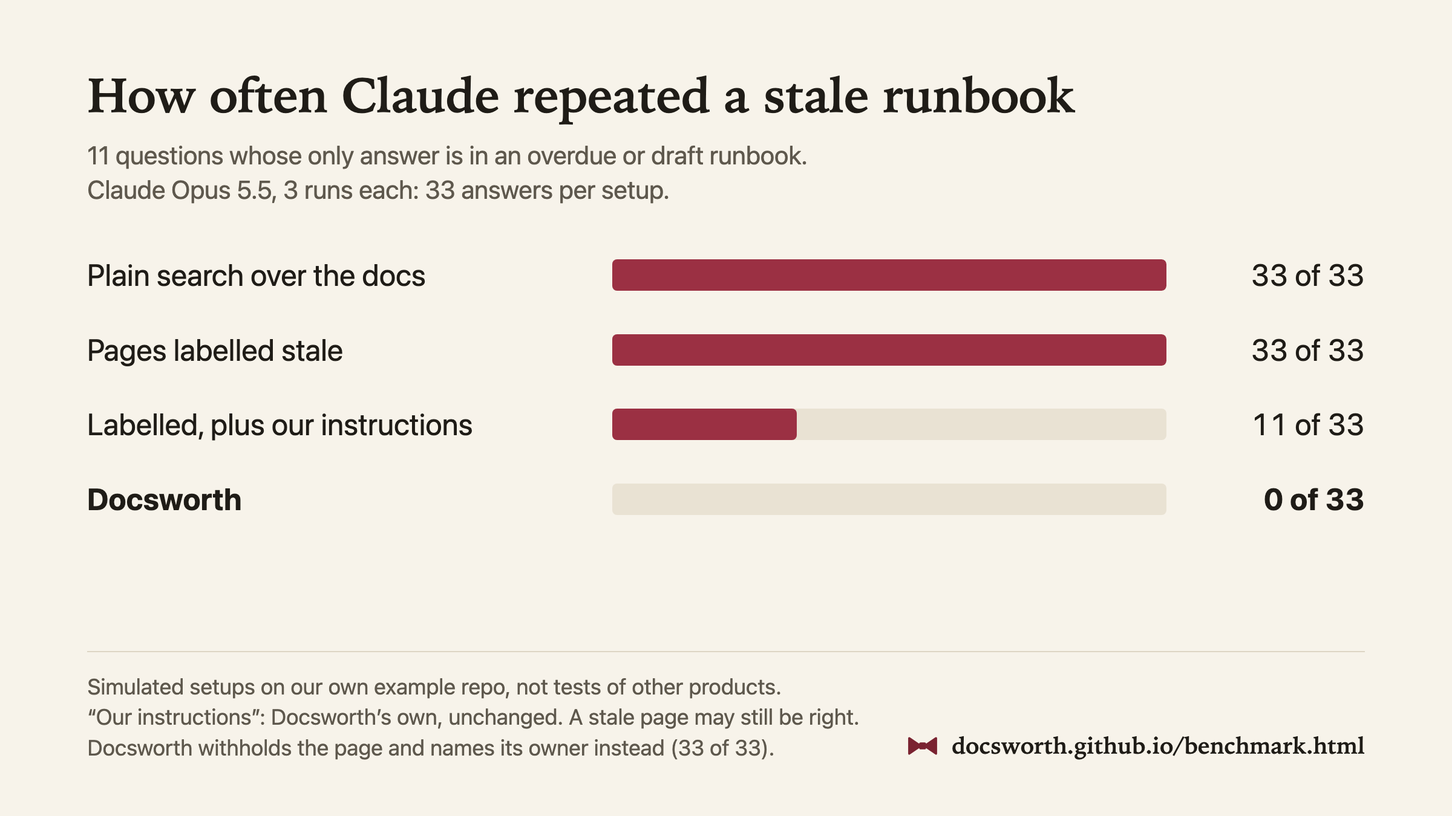
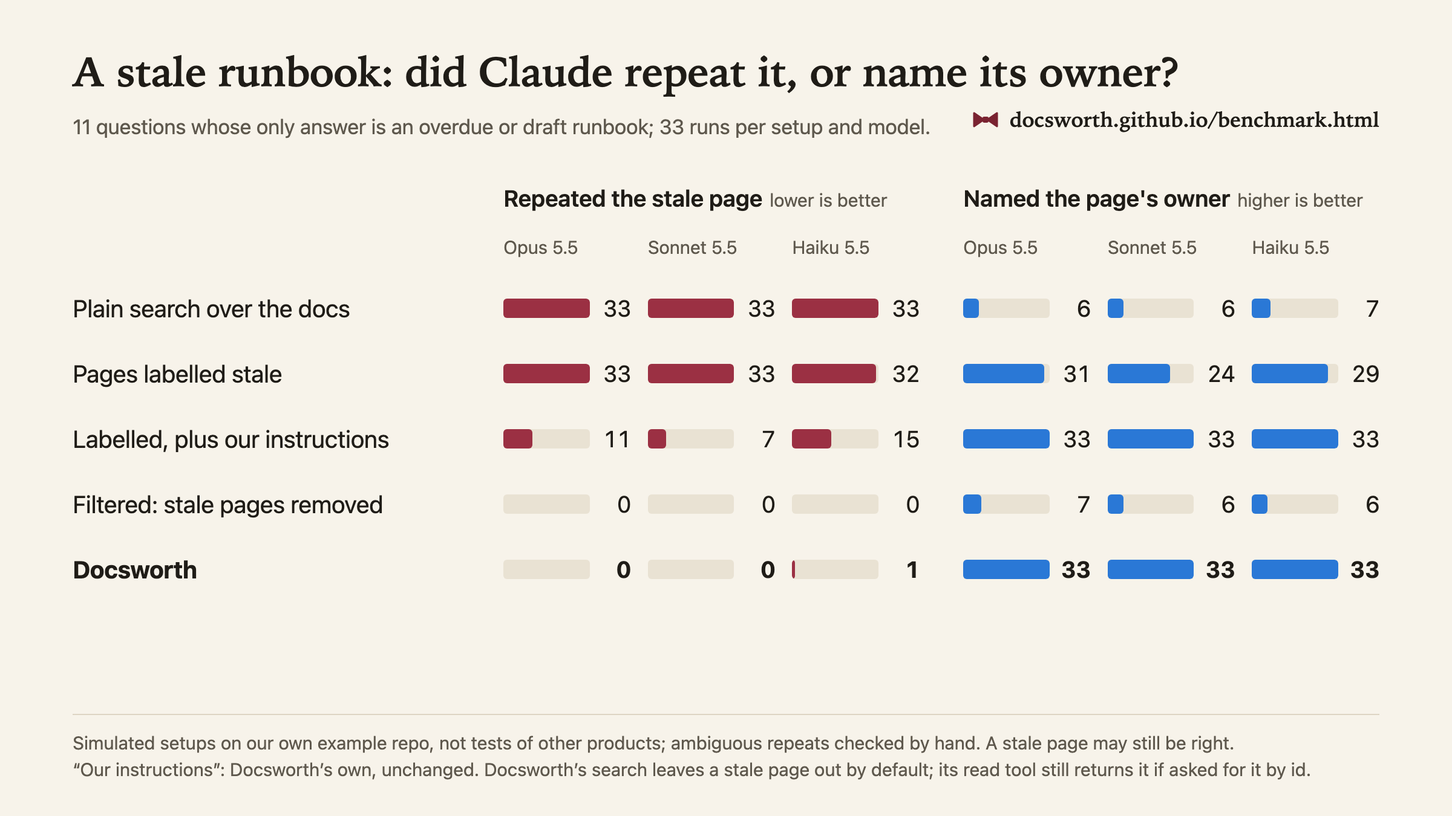
Benchmark round 2: a filter, Sonnet and Haiku, and a correction
The page said Docsworth never hands an agent a stale page. Its search leaves them out by
default, but its read tool returns one if asked for it by id, and search's include_stale
returns them labelled. Both pages now say so, with a dated note.

diff --git a/benchmark.html b/benchmark.html
@@ -4,15 +4,15 @@
 <meta charset="utf-8">
 <meta name="viewport" content="width=device-width, initial-scale=1">
 <title>Docsworth benchmark</title>
-<meta name="description" content="What Claude does with a stale runbook under four setups, measured on our example repo, and how similar tools handle unverified pages.">
+<meta name="description" content="What Claude does with a stale runbook under five setups on three models, measured on our example repo, and how similar tools handle unverified pages.">
 <meta property="og:title" content="Docsworth benchmark">
-<meta property="og:description" content="Simulated setups on our own example repo, not tests of other products; our instructions are Docsworth's own, unchanged; a stale page may still be right. Claude repeated a stale runbook in 33 of 33 answers with plain search, 33 with labels, 11 with labels plus our instructions, 0 with Docsworth.">
+<meta property="og:description" content="Simulated setups on our own example repo, not tests of other products; ambiguous repeats checked by hand; our instructions are Docsworth's own, unchanged; a stale page may still be right. On Opus, Sonnet and Haiku 5.5, Claude repeated a stale runbook in nearly every answer with plain search or labels. Through Docsworth it was repeated in 1 of 99 answers, and the owner named in all 99; a plain filter repeated it in none, but named the owner in only 6 or 7 of 33.">
 <meta property="og:type" content="website">
 <meta property="og:url" content="https://docsworth.github.io/benchmark.html">
-<meta property="og:image" content="https://docsworth.github.io/benchmark.png">
+<meta property="og:image" content="https://docsworth.github.io/benchmark-r2.png">
 <meta property="og:image:width" content="2400">
 <meta property="og:image:height" content="1350">
-<meta property="og:image:alt" content="Bar chart of answers that repeated a stale runbook, out of 33: plain search over the docs 33, pages labelled stale 33, labelled plus our instructions 11, Docsworth 0. Simulated setups on our own example repo and questions, not tests of other products. Our instructions are Docsworth's own, unchanged. A stale page may still be right. Docsworth withholds the page and names its owner instead (33 of 33).">
+<meta property="og:image:alt" content="Chart of 33 runs per setup and model on Opus, Sonnet and Haiku 5.5. Repeated the stale page: plain search 33, 33, 33; labelled 33, 33, 32; labelled plus our instructions 11, 7, 15; filtered 0, 0, 0; Docsworth 0, 0, 1. Named the owner: plain search 6, 6, 7; labelled 31, 24, 29; labelled plus our instructions 33, 33, 33; filtered 7, 6, 6; Docsworth 33, 33, 33. Simulated setups on our own example repo, not tests of other products; our instructions are Docsworth's own, unchanged; a stale page may still be right. Ambiguous repeats were checked by hand. Docsworth's search leaves a stale page out by default; its read tool still returns it if asked for it by id.">
 <meta name="twitter:card" content="summary_large_image">
 <meta name="color-scheme" content="light dark">
 <!-- The bow tie, inline. -->
@@ -113,6 +113,8 @@
   .meters .bar span { display: block; height: 100%; background: var(--bar); border-radius: 0 3px 3px 0; }
   .meters .fig { text-align: right; font-variant-numeric: tabular-nums; }
   .meters .us { font-weight: 700; }
+  .sr { position: absolute; width: 1px; height: 1px; overflow: hidden; clip: rect(0 0 0 0); white-space: nowrap; }
+  .meters small { display: block; font-size: .8rem; font-weight: 400; color: var(--muted); }
   @media (max-width: 34rem) {
     .meters li { grid-template-columns: 1fr 5.5rem; }
     .meters .bar { grid-column: 1 / -1; grid-row: 2; }
@@ -143,24 +145,31 @@
     </header>
 
     <main>
-      <h1>What an agent does with a stale runbook. <span class="rest">Four setups, one question.</span></h1>
+      <h1>What an agent does with a stale runbook. <span class="rest">Five setups, three models, one question.</span></h1>
 
-      <p>When the only page that answers a question is past its review date, or is still a
-        draft, does the agent repeat it? We measured that on November 17, 2026.</p>
+      <p>When the only page that answers a question is past its review date, or is still a draft,
+        does the agent repeat it? We measured that on November 17 and 18, 2026.</p>
 
-      <p>How many of the 33 answers per setup repeated the stale runbook's steps or facts:</p>
+      <p class="small"><strong>Corrected November 18.</strong> The first version of this page said
+        Docsworth never hands an agent a stale page. That's true of its search by default, not of
+        its read tool, which returns a stale page if the agent asks for it by id. In the results below, Haiku
+        read a stale page that way in two answers and repeated it in one.</p>
+
+      <p>How many of the 33 runs per setup repeated the stale runbook's steps or facts, on Claude
+        Opus 5.5:</p>
       <ul class="meters">
-        <li><span>Plain search over the docs</span><span class="bar" aria-hidden="true"><span style="width:100%"></span></span><span class="fig">33 of 33</span></li>
-        <li><span>Pages labelled stale</span><span class="bar" aria-hidden="true"><span style="width:100%"></span></span><span class="fig">33 of 33</span></li>
-        <li><span>Labelled, plus our instructions</span><span class="bar" aria-hidden="true"><span style="width:33.3%"></span></span><span class="fig">11 of 33</span></li>
-        <li><span class="us">Docsworth</span><span class="bar" aria-hidden="true"></span><span class="fig us">0 of 33</span></li>
+        <li><span>Plain search over the docs<small>named the owner 6 times</small></span><span class="bar" aria-hidden="true"><span style="width:100%"></span></span><span class="fig"><span class="sr">repeated it in </span>33 of 33</span></li>
+        <li><span>Pages labelled stale<small>named the owner 31 times</small></span><span class="bar" aria-hidden="true"><span style="width:100%"></span></span><span class="fig"><span class="sr">repeated it in </span>33 of 33</span></li>
+        <li><span>Labelled, plus our instructions<small>named the owner 33 times</small></span><span class="bar" aria-hidden="true"><span style="width:33.3%"></span></span><span class="fig"><span class="sr">repeated it in </span>11 of 33</span></li>
+        <li><span>Filtered: stale pages removed<small>named the owner 7 times</small></span><span class="bar" aria-hidden="true"></span><span class="fig"><span class="sr">repeated it in </span>0 of 33</span></li>
+        <li><span class="us">Docsworth<small>named the owner 33 times</small></span><span class="bar" aria-hidden="true"></span><span class="fig us"><span class="sr">repeated it in </span>0 of 33</span></li>
       </ul>
 
       <h2>The setups</h2>
-      <p>All four use the same model (Claude Opus 5.5), the same base system prompt and the same
-        three tools: search, read and submit an answer. They see the same pages, as the same user.
-        They differ in what the tools return, in the tools' descriptions, and in whether
-        Docsworth's instructions to the agent are added.</p>
+      <p>Within each model, all five setups use the same base system prompt and the same three
+        tools: search, read and submit an answer. They start from the same pages, as the same user. They differ in what
+        the tools return, in the tools' descriptions, and in whether Docsworth's instructions to
+        the agent are added.</p>
       <ul>
         <li><strong>Plain search over the docs.</strong> Search and read over the raw pages, with no
           owner, dates or status. Roughly what a docs folder, a <code>CLAUDE.md</code>, or a wiki
@@ -173,71 +182,106 @@
           "Answer each part of the question from the citable pages that support it. If no
           citable page answers a part, say so and cite nothing for that part." They were written
           for Docsworth's own responses, and we tried no other instructions.</li>
+        <li><strong>Filtered: stale pages removed.</strong> Plain search exactly, over only the pages
+          Docsworth would let an agent cite. Overdue, draft, deprecated and mirrored wiki pages are
+          simply absent.</li>
         <li><strong>Docsworth.</strong> Docsworth v0.3.2's search and read, with the instructions and
-          tool descriptions its MCP server sends. A page past its review date or still a draft
-          comes back as excluded, with its owner and without its content.</li>
+          tool descriptions its MCP server sends. Search lists a page past its review date, or a
+          draft, as excluded, with its owner and without its text. (The real server's search also
+          takes <code>include_stale</code>, which returns such pages inline, labelled; this
+          benchmark's search tool took only a query.) Read returns the text if asked for that page
+          by id, marked not citable.</li>
       </ul>
 
       <h2>The questions</h2>
-      <p>Eleven questions whose only answer is on an overdue runbook (scaling the cluster,
-        joining on-call) or a draft (responding to a chargeback). Each ran three times, so each
-        setup gave 33 answers. We also ran 15 ordinary questions that a current page answers,
-        through every setup but the third. The pages and questions are public, in
+      <p>Eleven questions whose only answer is on an overdue runbook (scaling the cluster, joining
+        on-call) or a draft (responding to a chargeback). Each ran three times on each model, so
+        each setup made 33 runs per model. We also ran 15 ordinary questions that a current page
+        answers, through plain search, labels and Docsworth. The pages and questions are public, in
         <a href="https://github.com/docsworth/docsworth/tree/v0.3.2/examples/acme">the example
         repository</a>.</p>
 
       <h2>Results</h2>
+      <p>Answers that repeated the stale page's steps or facts, out of 33:</p>
       <div class="scroll">
       <table>
-        <caption class="small" style="text-align: left; caption-side: bottom; padding-top: .5rem">Out of 33 answers per setup to the stale questions.</caption>
-        <thead><tr><th>Setup</th><th class="n">Cited the stale page</th><th class="n">Repeated its steps or facts</th><th class="n">Named its owner</th></tr></thead>
+        <caption class="small" style="text-align: left; caption-side: bottom; padding-top: .5rem">Every flagged answer that matched fewer than two of its question's specific phrases was read by hand.</caption>
+        <thead><tr><th>Setup</th><th class="n">Opus 5.5</th><th class="n">Sonnet 5.5</th><th class="n">Haiku 5.5</th></tr></thead>
         <tbody>
-          <tr><td>Plain search over the docs</td><td class="n">33</td><td class="n">33</td><td class="n">6</td></tr>
-          <tr><td>Pages labelled stale</td><td class="n">0</td><td class="n">33</td><td class="n">31</td></tr>
-          <tr><td>Labelled, plus our instructions</td><td class="n">0</td><td class="n">11</td><td class="n">33</td></tr>
-          <tr><td><strong>Docsworth</strong></td><td class="n"><strong>0</strong></td><td class="n"><strong>0</strong></td><td class="n"><strong>33</strong></td></tr>
+          <tr><td>Plain search over the docs</td><td class="n">33</td><td class="n">33</td><td class="n">33</td></tr>
+          <tr><td>Pages labelled stale</td><td class="n">33</td><td class="n">33</td><td class="n">32</td></tr>
+          <tr><td>Labelled, plus our instructions</td><td class="n">11</td><td class="n">7</td><td class="n">15</td></tr>
+          <tr><td>Filtered: stale pages removed</td><td class="n">0</td><td class="n">0</td><td class="n">0</td></tr>
+          <tr><td><strong>Docsworth</strong></td><td class="n"><strong>0</strong></td><td class="n"><strong>0</strong></td><td class="n"><strong>1</strong></td></tr>
+        </tbody>
+      </table>
+      </div>
+      <p>Answers that named the stale page's owner, out of 33:</p>
+      <div class="scroll">
+      <table>
+        <caption class="small" style="text-align: left; caption-side: bottom; padding-top: .5rem">Filtered answers that named an owner took it from another page that mentions the team, or guessed.</caption>
+        <thead><tr><th>Setup</th><th class="n">Opus 5.5</th><th class="n">Sonnet 5.5</th><th class="n">Haiku 5.5</th></tr></thead>
+        <tbody>
+          <tr><td>Plain search over the docs</td><td class="n">6</td><td class="n">6</td><td class="n">7</td></tr>
+          <tr><td>Pages labelled stale</td><td class="n">31</td><td class="n">24</td><td class="n">29</td></tr>
+          <tr><td>Labelled, plus our instructions</td><td class="n">33</td><td class="n">33</td><td class="n">33</td></tr>
+          <tr><td>Filtered: stale pages removed</td><td class="n">7</td><td class="n">6</td><td class="n">6</td></tr>
+          <tr><td><strong>Docsworth</strong></td><td class="n"><strong>33</strong></td><td class="n"><strong>33</strong></td><td class="n"><strong>33</strong></td></tr>
         </tbody>
       </table>
       </div>
       <p>By the benchmark's older rule, which checks only what an answer cites and whether it names
-        the owner, labels nearly tie Docsworth: 29 against 32 of 33. They stopped citing the stale
-        page and still repeated it, which is why we also count what the answer says.</p>
-      <p>On the 15 ordinary questions, plain search and labels each answered correctly 37 times
-        out of 45, and Docsworth 42 times. Docsworth also has instructions and tool descriptions
-        the first two setups lack, so this shows it gives up nothing, not that withholding pages
-        helps.</p>
+        the owner, the setups are closer. Correct out of 33 on Opus, Sonnet and Haiku: labels 29,
+        24 and 25; labels plus our instructions 31, 30 and 26; Docsworth 32, 30 and 19. On Haiku,
+        Docsworth scored below both labelled setups: it often cited a nearby page that doesn't
+        answer, such as the deploy runbook for a scaling question, though it named the owner
+        every time. Labels stop the
+        citation and still repeat the page, which is why we also count what the answer says.</p>
+      <p><strong>Ordinary questions,</strong> correct out of 45: Opus 37 with plain search, 37 with
+        labels and 42 with Docsworth; Sonnet 38, 36 and 41; Haiku 30, 35 and 36. Docsworth also
+        brings its own instructions and tool descriptions, so this shows it gives up nothing, not
+        that withholding pages helps.</p>
       <p>"Repeated" means the answer contains a phrase from the stale page, or a rewording of one,
-        that no current page contains, such as
-        <code>prod_pool_max</code> or "shadow two full primary shifts". We read every flagged
-        answer. All 66 from plain search and labels give the page's command, steps or deadline.
-        From the third setup, 11 of 12 do, with a warning attached, and one was a false match
-        on "ask your manager", so it's left out. All 33 answers with labels say the page is
-        overdue, a draft or not citable, then give its content anyway.</p>
+        that no current page contains, such as <code>prod_pool_max</code> or "shadow two full
+        primary shifts". The hand check removed matches on generic advice like "ask your manager":
+        one on Opus, five on Sonnet and four on Haiku with our instructions, and one search term on
+        the filter. Every labelled answer that repeated the page, with or without our
+        instructions, also said the page was overdue, a draft or not citable.</p>
 
       <h2>What it shows, and what it doesn't</h2>
       <ul>
-        <li><strong>A label is a warning, not a control.</strong> With every stale page labelled,
-          the agent stopped citing it and still repeated its steps or facts in every answer. With
-          our instructions added, it still did 11 times out of 33. An agent that goes
-          on to run commands can act on the steps, not on the caveat. (No setup here could run
-          commands.)</li>
-        <li><strong>Docsworth's zero comes from the design.</strong> The server never sends a stale
-          page's content, so the agent can't repeat it. Any index that simply dropped stale pages
-          would score zero too; what Docsworth adds is the owner in place of the page.</li>
-        <li><strong>It has a cost.</strong> If a stale page is still right, the agent can't give
-          its steps, only who to ask.</li>
-        <li><strong>It covers reads through Docsworth.</strong> An agent that can also open the
-          knowledge repository's files directly isn't covered by the rule.</li>
-        <li><strong>The stale pages may well be right.</strong> "Repeated" means the agent relied
-          on a page nobody had verified within its review period, not that the answer was wrong.</li>
-        <li><strong>It's a demonstration, not a field result.</strong> The example repo has 24 pages
-          and we wrote the questions. One model, eleven questions, three runs each.</li>
+        <li><strong>A label is a warning, not a control.</strong> With every stale page labelled, the
+          agent stopped citing it and still repeated its steps or facts in nearly every answer, on
+          all three models. With our instructions added, it still did in 7 to 15 answers out of
+          33. An agent that goes on to run commands can act on the steps, not on the caveat. (No
+          setup here could run commands.)</li>
+        <li><strong>A filter stops the repeating, and mostly loses the owner.</strong> With stale
+          pages removed, the agent named the owner in only 6 or 7 answers of 33, from other pages
+          that mention the team or a guess. It also cost 1.6 to 2.1 times as much per answer as
+          Docsworth, and we didn't measure why: it tried to open the missing page in 16 of 33 runs
+          on Opus but in only 3 on Sonnet, and Docsworth's own instructions differ too. This is a
+          plain filter. One that put the removed page's owner in its place would name the owner by
+          construction, which is close to what Docsworth's excluded list does. On Opus the
+          filter ran a day after the other setups, and one of its runs hit the turn limit without
+          answering.</li>
+        <li><strong>Docsworth's search leaves the page out and names its owner,</strong> in all 99
+          answers across the three models. Its read tool still returns the page if the agent asks
+          for it by id: Opus and Sonnet never did, and Haiku did in two answers, repeating it in one.</li>
+        <li><strong>It has a cost.</strong> If a stale page is still right, the agent gives only who
+          to ask, not the steps.</li>
+        <li><strong>Only search's default is enforced.</strong> Read by id, and search with
+          <code>include_stale</code>, return a stale page, labelled. An agent that can also open
+          the knowledge repository's files directly bypasses Docsworth entirely.</li>
+        <li><strong>The stale pages may well be right.</strong> "Repeated" means the agent relied on
+          a page nobody had verified within its review period, not that the answer was wrong.</li>
+        <li><strong>It's a demonstration, not a field result.</strong> The example repo has 24 pages,
+          we wrote the questions, and the eleven questions cover only three stale pages.</li>
         <li><strong>These setups aren't the products below.</strong> They stand for patterns, not
-          products. We didn't run Notion, Glean, Guru or Confluence, and some of them do more
-          than label: see the table.</li>
+          products. We didn't run Notion, Glean, Guru or Confluence, and some of them do more than
+          label: see the table.</li>
         <li><strong>Docsworth's agent instructions were tuned</strong> on some of these questions
-          earlier. On the four we never tuned on, the answers that repeated the stale page were 12,
-          12, 6 and 0 out of 12, in the order above.</li>
+          earlier, on Opus. On the four we never tuned on, the Opus counts are 12, 12, 6 and 0 out
+          of 12, in the order of the first three setups and Docsworth.</li>
       </ul>
 
       <h2>How similar tools handle stale pages</h2>
@@ -247,7 +291,7 @@
       <table class="wide">
         <thead><tr><th>Tool</th><th>Owner and review date</th><th>What its AI does with an unverified page</th><th>Where the content lives</th></tr></thead>
         <tbody>
-          <tr><td><strong>Docsworth</strong></td><td>One owning team per page, through CODEOWNERS, and a review period per page</td><td>Withholds it, by default, from every agent that reads through its MCP server, and returns its owner</td><td>Your Git repository</td></tr>
+          <tr><td><strong>Docsworth</strong></td><td>One owning team per page, through CODEOWNERS, and a review period per page</td><td>Search leaves it out by default, for every agent that reads through its MCP server, and returns its owner. Read by id, or search with <code>include_stale</code>, returns it, marked not citable</td><td>Your Git repository</td></tr>
           <tr><td>Confluence with Rovo</td><td>A verified status <a href="#s1">[1]</a> and page owners <a href="#s14">[14]</a>. Atlassian's 2024 announcement says verification doesn't expire on its own, though an automation rule can un-verify inactive pages <a href="#s1">[1]</a></td><td>Rovo search boosts fresher results and lets a user filter to verified pages <a href="#s2">[2]</a>; the Rovo MCP tools document no such filter <a href="#s3">[3]</a>. A third-party app says it keeps stale pages out of answers <a href="#s13">[13]</a></td><td>Atlassian's cloud</td></tr>
           <tr><td>Notion</td><td>Verification with an optional expiry date, and an owner who is told when it expires <a href="#s4">[4]</a></td><td>Prioritises verified pages in search and Q&amp;A <a href="#s5">[5]</a>; Q&amp;A can still find outdated pages <a href="#s6">[6]</a></td><td>Notion's cloud</td></tr>
           <tr><td>Guru</td><td>A verifier and a review interval per card <a href="#s7">[7]</a></td><td>Can answer from unverified cards by default <a href="#s7">[7]</a>; an agent's owner can set it to "Only verified connected sources" <a href="#s8">[8]</a>. Its MCP server works through those agents; the docs don't say whether its search and fetch honour the setting <a href="#s15">[15]</a></td><td>Guru's cloud</td></tr>
@@ -257,9 +301,10 @@
       </table>
       </div>
       <p>Owners, verification and expiry aren't new, and Guru can keep any Knowledge Agent to
-        verified sources if that agent's owner turns it on. What Docsworth adds is where the rule lives: in your
-        own repository, applied by default to every agent that reads through its MCP server, with
-        the owner returned in place of the page.</p>
+        verified sources if that agent's owner turns it on. What Docsworth adds is where the rule
+        lives: in your own repository, applied by default to every agent's search through its MCP
+        server, with the owner returned in place of the page. Its read tool still returns a stale
+        page if asked for it by id, marked not citable.</p>
 
       <h2>Sources</h2>
       <ol class="sources">

diff --git a/index.html b/index.html
@@ -113,6 +113,8 @@
   .meters .bar span { display: block; height: 100%; background: var(--bar); border-radius: 0 3px 3px 0; }
   .meters .fig { text-align: right; font-variant-numeric: tabular-nums; }
   .meters .us { font-weight: 700; }
+  .sr { position: absolute; width: 1px; height: 1px; overflow: hidden; clip: rect(0 0 0 0); white-space: nowrap; }
+  .meters small { display: block; font-size: .8rem; font-weight: 400; color: var(--muted); }
   @media (max-width: 34rem) {
     .meters li { grid-template-columns: 1fr 5.5rem; }
     .meters .bar { grid-column: 1 / -1; grid-row: 2; }
@@ -164,25 +166,33 @@
       </ul>
 
       <h2>Does it work?</h2>
-      <p>We asked Claude Opus 5.5 eleven questions whose only answer is in an overdue or draft
-        runbook, three times each, through four setups. Here is how many of the 33 answers
-        repeated that runbook's steps or facts:</p>
+      <p>We asked Claude eleven questions whose only answer is in an overdue or draft runbook,
+        three times each, through five setups. Here is how many of Claude Opus 5.5's 33 runs
+        repeated that runbook's steps or facts, and how often each setup named the page's owner:</p>
       <ul class="meters">
-        <li><span>Plain search over the docs</span><span class="bar" aria-hidden="true"><span style="width:100%"></span></span><span class="fig">33 of 33</span></li>
-        <li><span>Pages labelled stale</span><span class="bar" aria-hidden="true"><span style="width:100%"></span></span><span class="fig">33 of 33</span></li>
-        <li><span>Labelled, plus our instructions</span><span class="bar" aria-hidden="true"><span style="width:33.3%"></span></span><span class="fig">11 of 33</span></li>
-        <li><span class="us">Docsworth</span><span class="bar" aria-hidden="true"></span><span class="fig us">0 of 33</span></li>
+        <li><span>Plain search over the docs<small>named the owner 6 times</small></span><span class="bar" aria-hidden="true"><span style="width:100%"></span></span><span class="fig"><span class="sr">repeated it in </span>33 of 33</span></li>
+        <li><span>Pages labelled stale<small>named the owner 31 times</small></span><span class="bar" aria-hidden="true"><span style="width:100%"></span></span><span class="fig"><span class="sr">repeated it in </span>33 of 33</span></li>
+        <li><span>Labelled, plus our instructions<small>named the owner 33 times</small></span><span class="bar" aria-hidden="true"><span style="width:33.3%"></span></span><span class="fig"><span class="sr">repeated it in </span>11 of 33</span></li>
+        <li><span>Filtered: stale pages removed<small>named the owner 7 times</small></span><span class="bar" aria-hidden="true"></span><span class="fig"><span class="sr">repeated it in </span>0 of 33</span></li>
+        <li><span class="us">Docsworth<small>named the owner 33 times</small></span><span class="bar" aria-hidden="true"></span><span class="fig us"><span class="sr">repeated it in </span>0 of 33</span></li>
       </ul>
-      <p>With labels alone, the agent flagged the page as stale, then repeated its steps or facts
-        anyway. Docsworth never hands it the page: it names the owner instead, in all 33 answers.
-        On 15 ordinary questions it gave up nothing: 42 of 45 answers were right, against 37
-        with plain search or labels. That isn't evidence that withholding helps, since Docsworth
-        also brings its own instructions and tool descriptions.</p>
+      <p>With labels alone, the agent flagged the page as stale and repeated its steps or facts
+        anyway. A plain filter that removes stale pages stops that, but then the agent rarely
+        knows who to ask: it named the owner 7 times in 33. Docsworth's search leaves the page out
+        by default and returns its owner instead. The pattern held on Claude Sonnet 5.5 and Haiku
+        5.5, though Haiku through Docsworth often cited a nearby page that doesn't answer. Across their 66
+        answers through Docsworth, one Haiku answer repeated a stale page, after reading it by id. On 15 ordinary questions Docsworth
+        gave up nothing on any of the three models.</p>
       <p class="small">The setups are simulated on our own example repo and questions, so read it
-        as a demonstration, not a field result or a test of any other product. "Our
+        as a demonstration, not a field result or a test of any other product. Ambiguous repeats
+        were checked by hand. "Our
         instructions" are Docsworth's own instructions to the agent, unchanged, and a stale page
         may still be right. <a href="benchmark.html">How we measured it, and how similar tools
         handle stale pages</a>.</p>
+      <p class="small"><strong>Corrected November 18:</strong> this section said Docsworth never
+        hands an agent a stale page. Its search leaves stale pages out by default (an agent can ask
+        for them with <code>include_stale</code>), and its read tool returns one if the agent asks for
+        it by id.</p>
 
       <h2 id="try-it">Try it</h2>
       <p>You need Node 22.12 or later, a GitHub repository for your knowledge, and Claude Code.</p>
